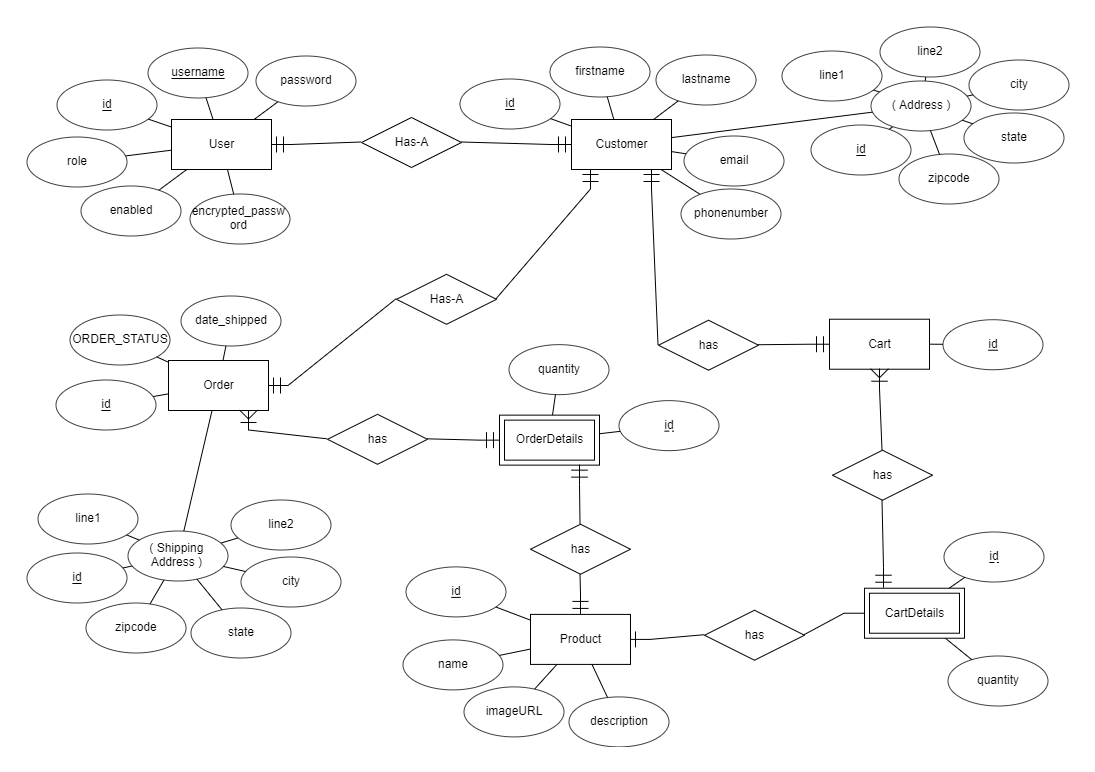
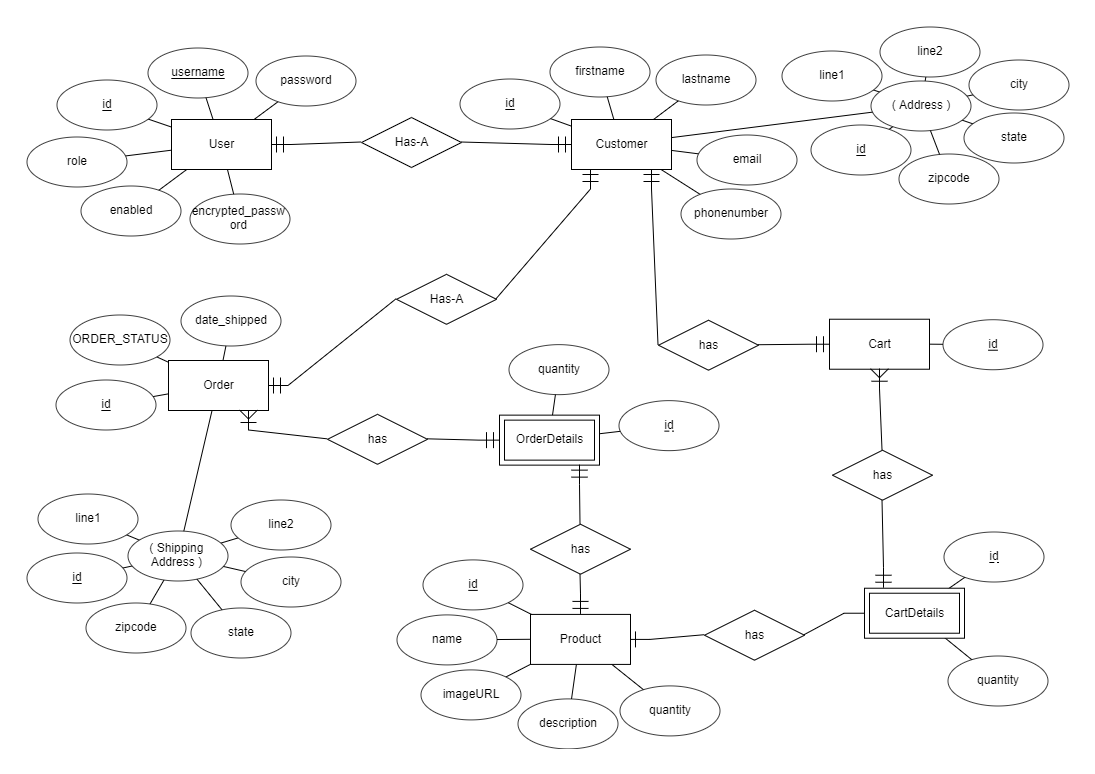
Added missing quantity attribute to product entity

diff --git a/src/main/java/com/goodbookclub/bookclub/bootstrap/DevBootStrapData.java b/src/main/java/com/goodbookclub/bookclub/bootstrap/DevBootStrapData.java
@@ -103,30 +103,35 @@ public class DevBootStrapData implements ApplicationListener<ContextRefreshedEve
 		p1.setName("Laptop");
 		p1.setDescription("This is a laptop description");
 		p1.setImgUrl("images/laptop.png");
+		p1.setQuantity(10);
 		productService.saveOrUpdateProduct(p1);
 		
 		Product p2 = new Product();
 		p2.setName("Table");
 		p2.setDescription("This is a table description");
 		p2.setImgUrl("images/table.png");
+		p2.setQuantity(10);
 		productService.saveOrUpdateProduct(p2);
 		
 		Product p3 = new Product();
 		p3.setName("Chair");
 		p3.setDescription("This is a chair description");
 		p3.setImgUrl("images/chair.png");
+		p3.setQuantity(10);
 		productService.saveOrUpdateProduct(p3);
 		
 		Product p4 = new Product();
 		p4.setName("Mobile");
 		p4.setDescription("This is a mobile description");
 		p4.setImgUrl("images/mobile.png");
+		p4.setQuantity(10);
 		productService.saveOrUpdateProduct(p4);
 		
 		Product p5 = new Product();
 		p5.setName("Shirt");
 		p5.setDescription("This is a shirt description");
 		p5.setImgUrl("images/shirt.png");
+		p5.setQuantity(10);
 		productService.saveOrUpdateProduct(p5);
 		
 	}

diff --git a/src/main/java/com/goodbookclub/bookclub/domains/Product.java b/src/main/java/com/goodbookclub/bookclub/domains/Product.java
@@ -2,6 +2,7 @@ package com.goodbookclub.bookclub.domains;
 
 import javax.persistence.Entity;
 import javax.validation.constraints.NotEmpty;
+import javax.validation.constraints.NotNull;
 
 import lombok.EqualsAndHashCode;
 import lombok.Getter;
@@ -22,5 +23,7 @@ public class Product extends AbstractDomainClass{
 	private String description;	
 	@NotEmpty
 	private String imgUrl;
+	@NotNull
+	private Integer quantity;
 
 }
